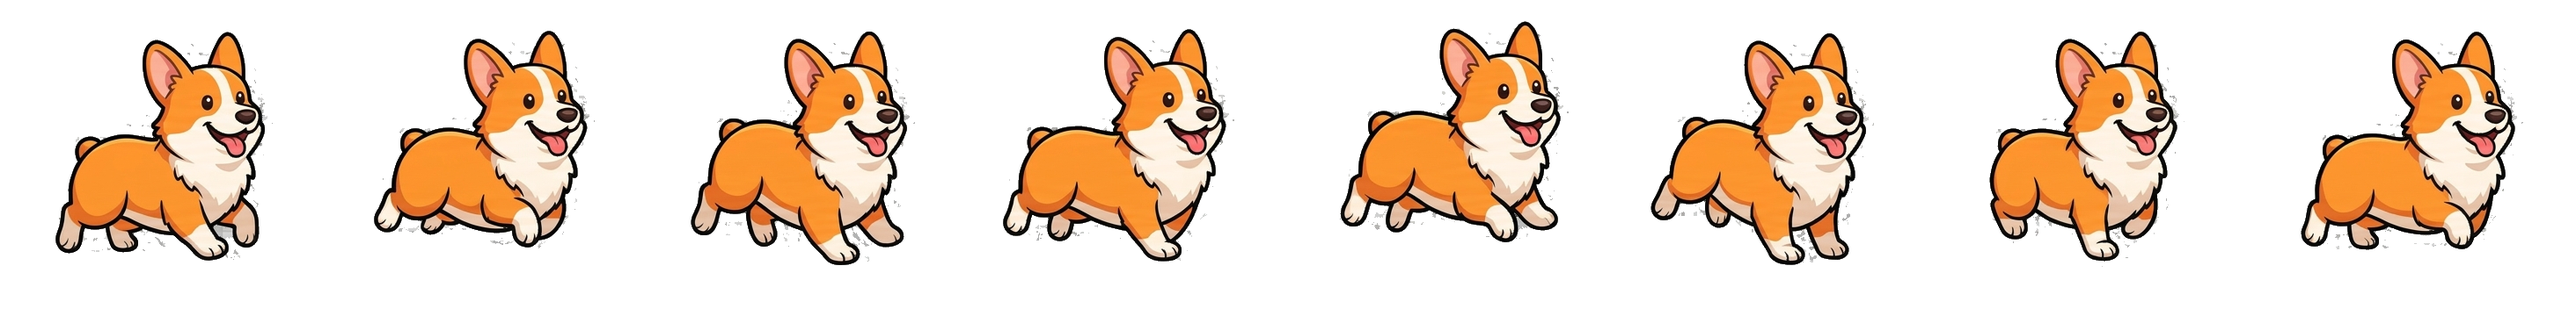
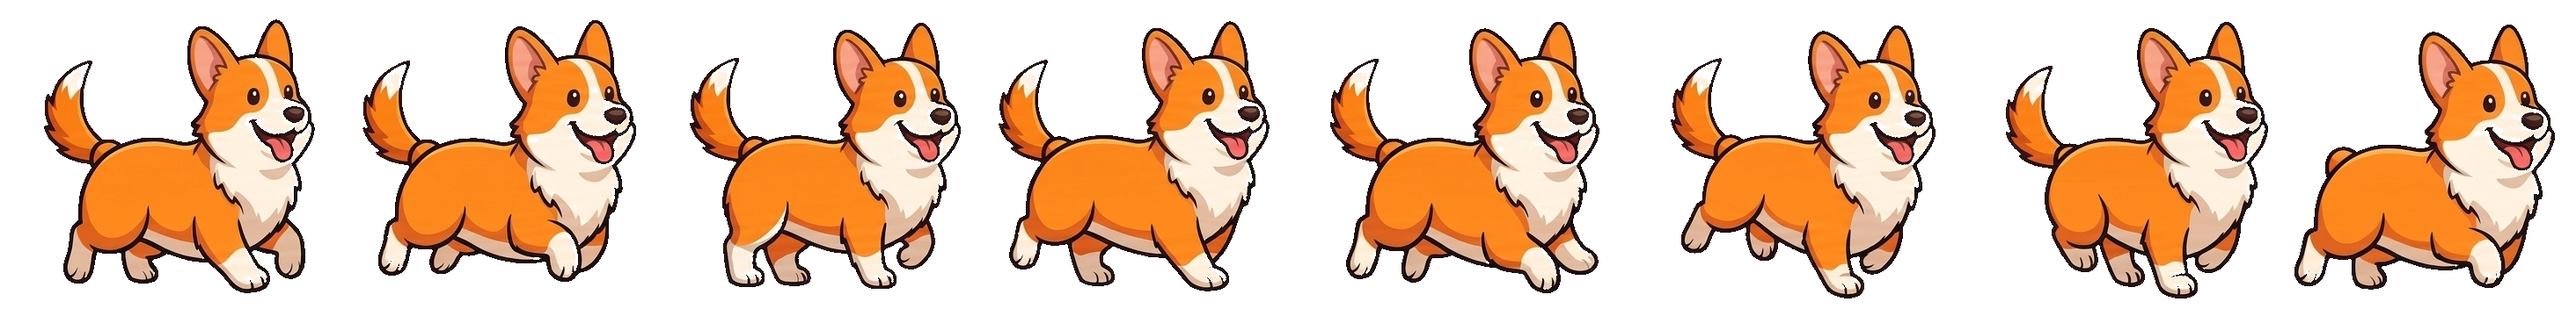
New Classic Corgi 8-frame run sheet + jump onGround check now respects body-bob (was silently missing jumps)

diff --git a/frontend/src/game/scenes/GameScene.ts b/frontend/src/game/scenes/GameScene.ts
@@ -456,7 +456,11 @@ export class GameScene extends Phaser.Scene {
 
   private executeJumpIfPossible(): void {
     const now = this.time.now;
-    const onGround = this.corgi.body!.velocity.y === 0 && this.corgi.y >= this.groundY - 1;
+    // The grounded check must account for the physics-safe body-bob applied
+    // in applyRunBob(): the sprite can sit up to ~5 px above groundY while
+    // still being "on the ground". Without this tolerance the jump silently
+    // no-ops on any tap that happens to coincide with a bob peak.
+    const onGround = this.corgi.body!.velocity.y === 0 && this.corgi.y >= this.groundY - 6;
     const canCoyote = now < this.coyoteUntil;
     if ((onGround || canCoyote) && now < this.jumpBufferedUntil) {
       // Stop the running bounce BEFORE applying jump velocity so scaleY is

diff --git a/frontend/src/game/scenes/PreloadScene.ts b/frontend/src/game/scenes/PreloadScene.ts
@@ -77,7 +77,7 @@ export class PreloadScene extends Phaser.Scene {
     // Cache-bust query string (`?v=…`) forces the browser to fetch the latest
     // repaired PNG whenever the corgi assets are updated — bypasses any stale
     // sprite data cached from earlier gameplay sessions.
-    const V = 'v=20260726c';
+    const V = 'v=20260726d';
     this.load.spritesheet('corgi_run', `/assets/corgi_run_sheet.png?${V}`, {
       frameWidth: 366,
       frameHeight: 352,
